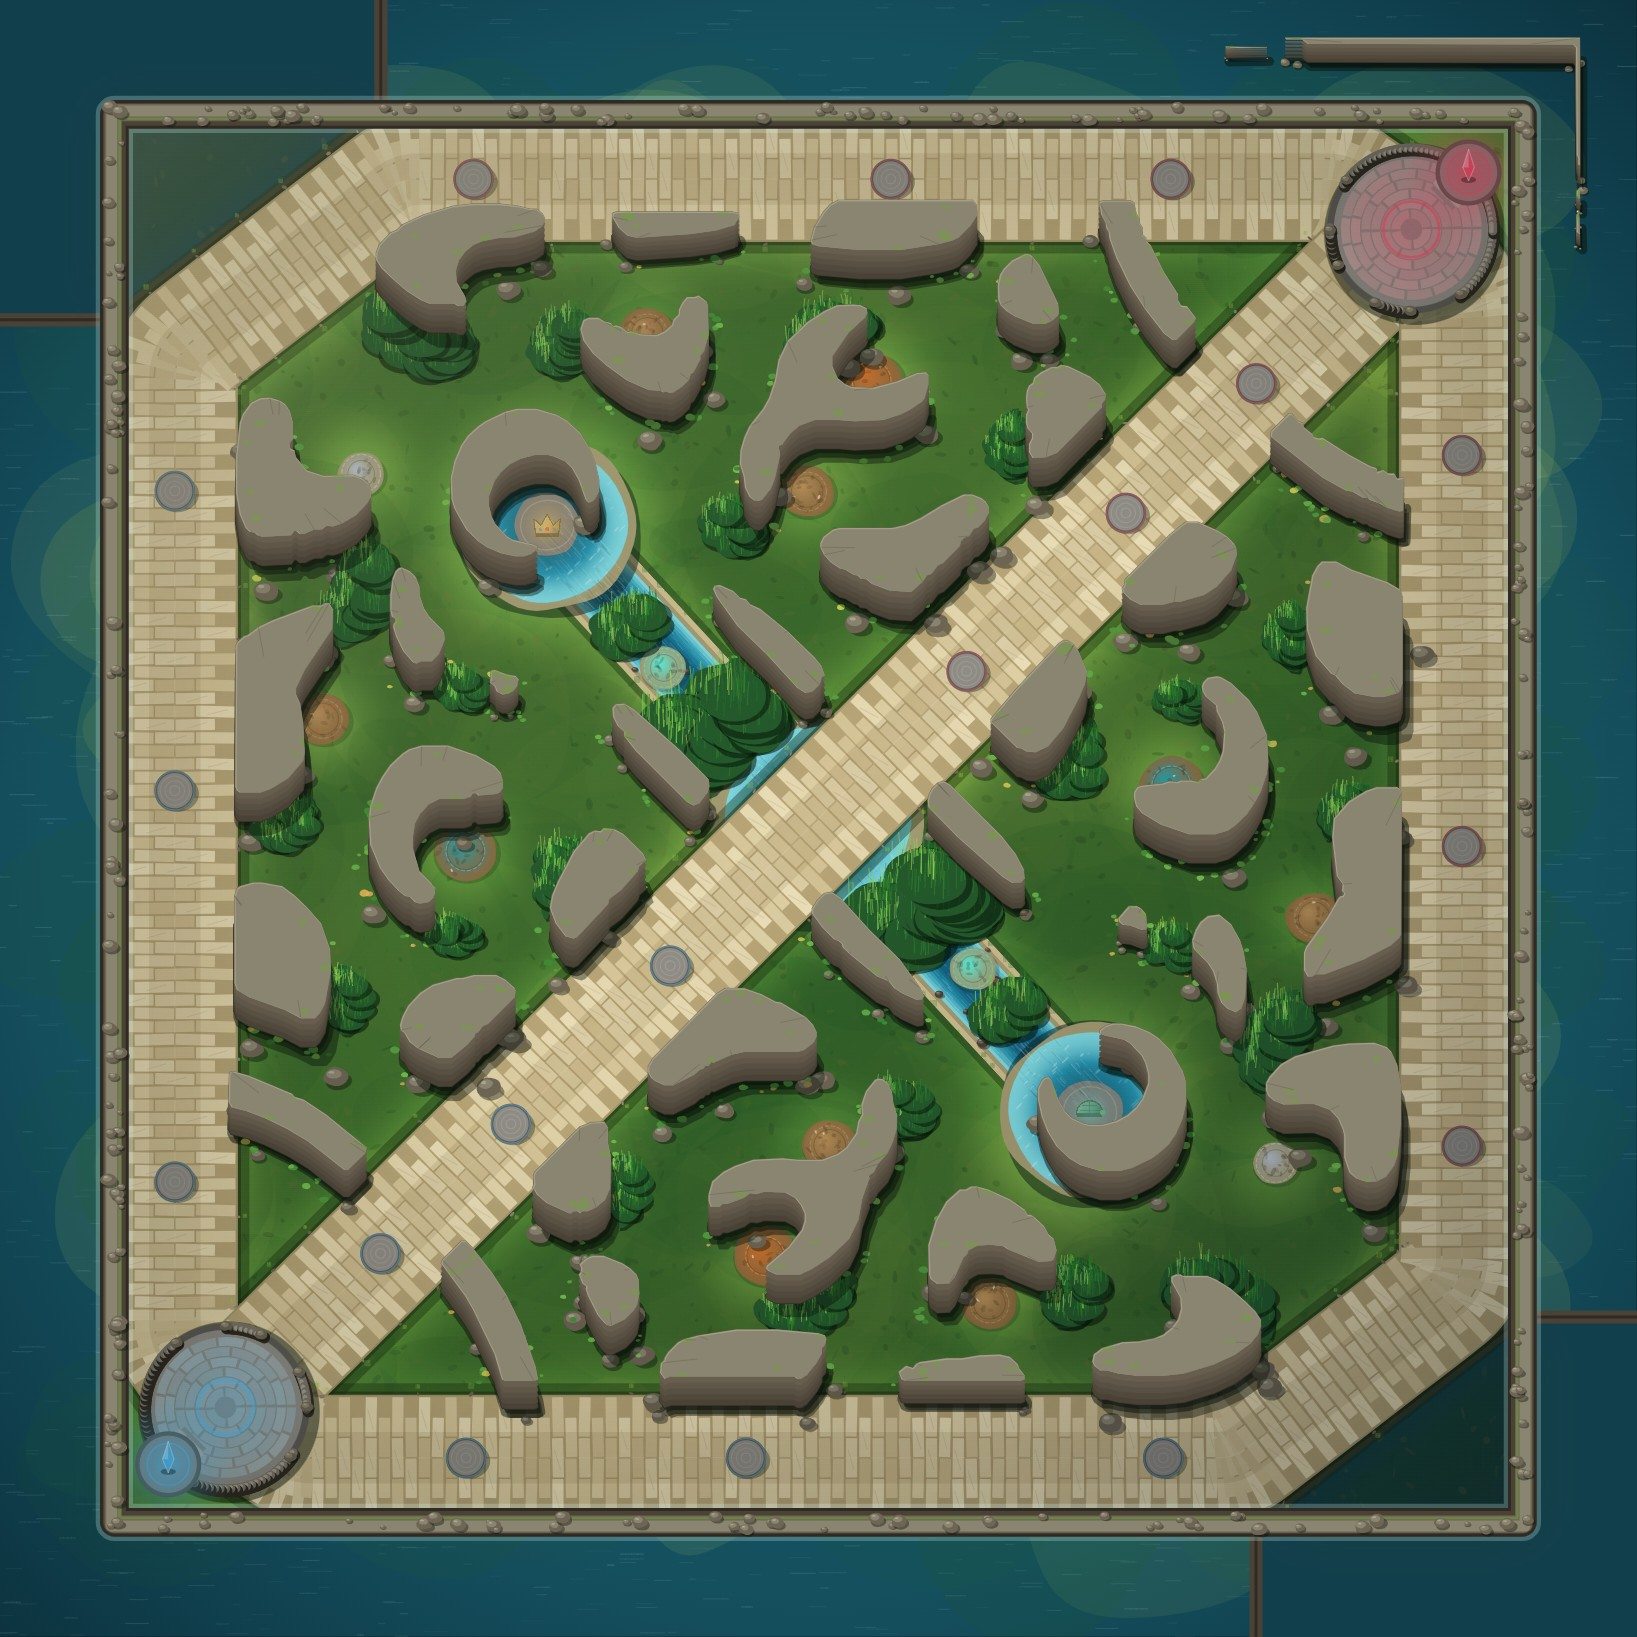
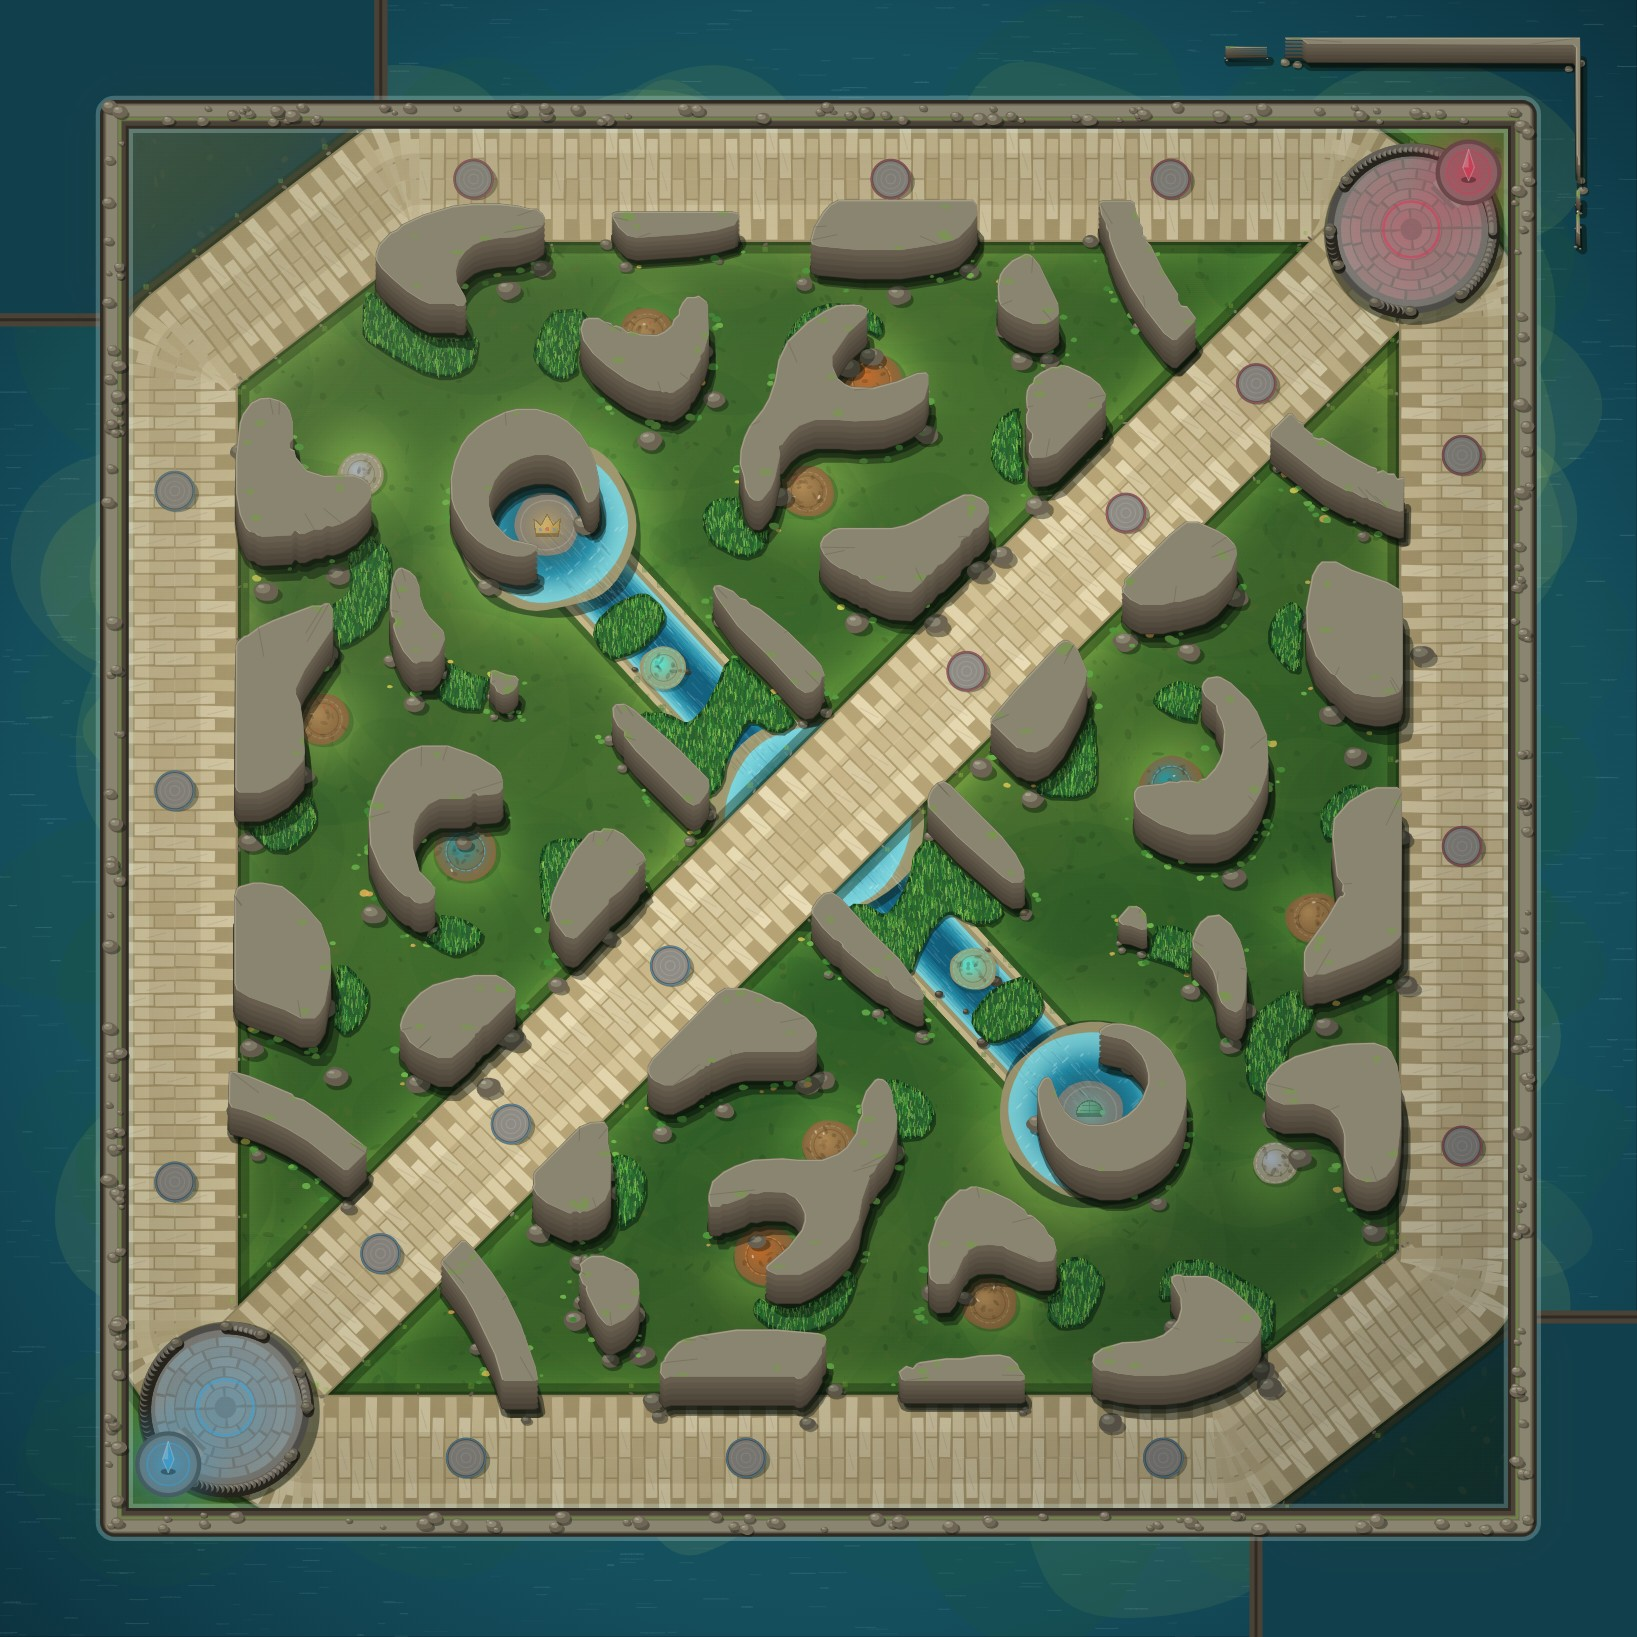
Bushes painted as grass beds clipped to their exact outline
The polygon bushes were drawn as piles of round beds at a few interior
points, spilling past the outline. Now the polygon is the bed: ground
shadow, darkened rim, dense grass blades clipped to the shape; live, a
lifted translucent canopy so units inside stay readable.

diff --git a/js/mapart.js b/js/mapart.js
@@ -427,13 +427,30 @@ const MapArt = (() => {
      beds along its axis, the same shape the concealment test uses. */
   function bush(g, b) {
     if (b.poly) {
-      /* exact outline: the bed is the polygon itself, thickets sit inside it */
-      g.fillStyle = 'rgba(6, 22, 8, 0.55)';
-      g.beginPath(); b.poly.forEach((p, i) => i ? g.lineTo(p.x + 10, p.y + 12) : g.moveTo(p.x + 10, p.y + 12)); g.closePath(); g.fill();
-      g.fillStyle = '#245a2c';
-      g.beginPath(); b.poly.forEach((p, i) => i ? g.lineTo(p.x, p.y) : g.moveTo(p.x, p.y)); g.closePath(); g.fill();
-      const rr = Math.max(26, b.r * 0.62);
-      for (const p of b.lobes) bushBeds(g, { x: p.x, y: p.y, r: rr });
+      /* exact outline: the polygon is the bed. A ground shadow, the bed with a
+         darkened rim, then tall grass blades clipped to the outline. */
+      const rnd = rng((b.x * 31 + b.y * 17) | 0);
+      const path = (dx, dy) => { g.beginPath(); b.poly.forEach((p, i) => i ? g.lineTo(p.x + dx, p.y + dy) : g.moveTo(p.x + dx, p.y + dy)); g.closePath(); };
+      path(8, 12); g.fillStyle = 'rgba(6, 22, 8, 0.5)'; g.fill();
+      path(0, 0); g.fillStyle = '#2a6132'; g.fill();
+      g.save(); path(0, 0); g.clip();
+      g.strokeStyle = 'rgba(8, 34, 14, 0.6)'; g.lineWidth = 30; g.lineJoin = 'round'; path(0, 0); g.stroke();
+      const w = b.maxX - b.minX, h = b.maxY - b.minY;
+      const n = Math.round((w * h) / 150);
+      g.lineCap = 'round';
+      for (let i = 0; i < n; i++) {
+        const px = b.minX + rnd() * w, py = b.minY + rnd() * h;
+        if (!polyClosest(b.poly, px, py).inside) continue;
+        const hgt = 14 + rnd() * 22;
+        const lit = rnd() < 0.45;
+        g.strokeStyle = lit ? `rgba(${110 + rnd() * 60 | 0},${190 + rnd() * 40 | 0},${70 + rnd() * 30 | 0},0.85)`
+          : `rgba(${30 + rnd() * 30 | 0},${100 + rnd() * 50 | 0},${34 + rnd() * 20 | 0},0.85)`;
+        g.lineWidth = 2.2 + rnd() * 1.6;
+        g.beginPath(); g.moveTo(px, py + 3);
+        g.quadraticCurveTo(px + (rnd() - 0.5) * 10, py - hgt * 0.5, px + (rnd() - 0.5) * 16, py - hgt);
+        g.stroke();
+      }
+      g.restore();
       return;
     }
     bushBeds(g, b);

diff --git a/js/main.js b/js/main.js
@@ -2930,12 +2930,13 @@ function render() {
   };
   const bushPoly = b => {
     const path = (dx, dy) => { ctx.beginPath(); b.poly.forEach((p, i) => i ? ctx.lineTo(p.x + dx, p.y + dy) : ctx.moveTo(p.x + dx, p.y + dy)); ctx.closePath(); };
-    path(6, 10); ctx.fillStyle = 'rgba(4,10,6,0.32)'; ctx.fill();
-    path(0, 0); ctx.fillStyle = Game.isTen() ? '#3a1a10' : THEME.bush; ctx.fill();
-    ctx.save(); path(0, -10); ctx.clip();
-    const sub = { r: Math.max(26, b.r * 0.62) };
-    for (const p of b.lobes) bushLobes(sub, p.x, p.y, Math.atan2(p.y - b.y, p.x - b.x) + Math.PI / 4);
-    ctx.restore();
+    /* the grass itself is baked into the board; live, the bush is a lifted
+       translucent canopy so units inside stay readable */
+    ctx.globalAlpha = 0.55;
+    path(0, -12); ctx.fillStyle = Game.isTen() ? '#4a2a18' : THEME.bushLight; ctx.fill();
+    ctx.globalAlpha = 1;
+    ctx.strokeStyle = Game.isTen() ? 'rgba(90,50,30,0.5)' : 'rgba(40,110,50,0.55)'; ctx.lineWidth = 4; ctx.lineJoin = 'round';
+    path(0, -12); ctx.stroke();
   };
   for (const b of Game.bushes()) {
     if (b.poly) {

diff --git a/index.html b/index.html
@@ -357,7 +357,7 @@
 <script src="js/data.js?v=73"></script>
 <script src="js/map-data.js?v=4"></script>
 <script src="js/map.js?v=64"></script>
-<script src="js/mapart.js?v=7"></script>
+<script src="js/mapart.js?v=8"></script>
 <script src="js/combat.js?v=70"></script>
 <script src="js/bot-params.js?v=71"></script>
 <script src="js/ai/rng.js?v=47"></script>
@@ -374,6 +374,6 @@
 <script src="js/mlbb.js?v=1"></script>
 <script src="js/screens.js?v=1"></script>
 <script src="js/native.js?v=1"></script>
-<script src="js/main.js?v=79"></script>
+<script src="js/main.js?v=80"></script>
 </body>
 </html>
